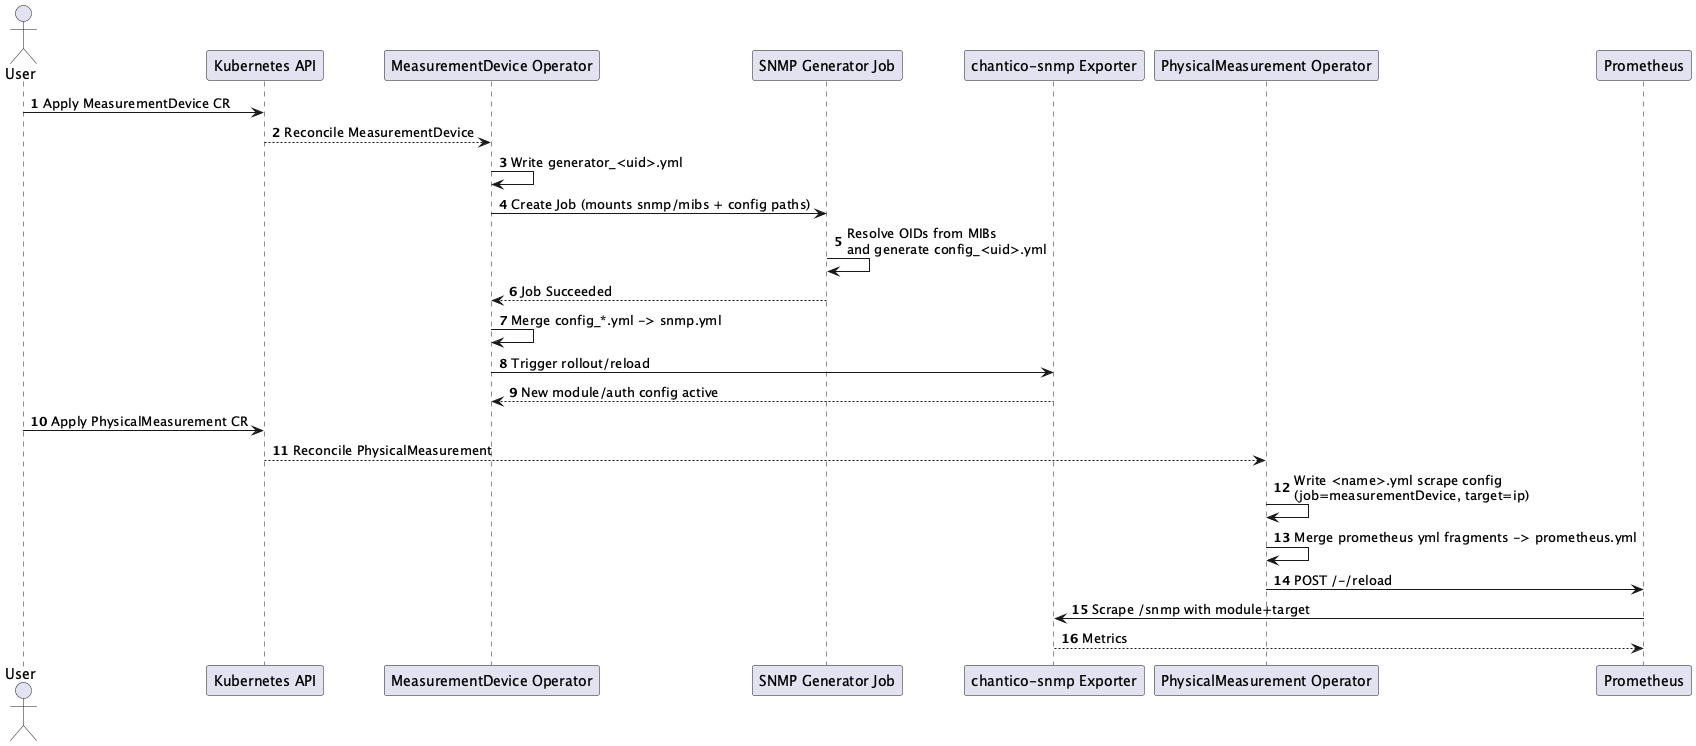
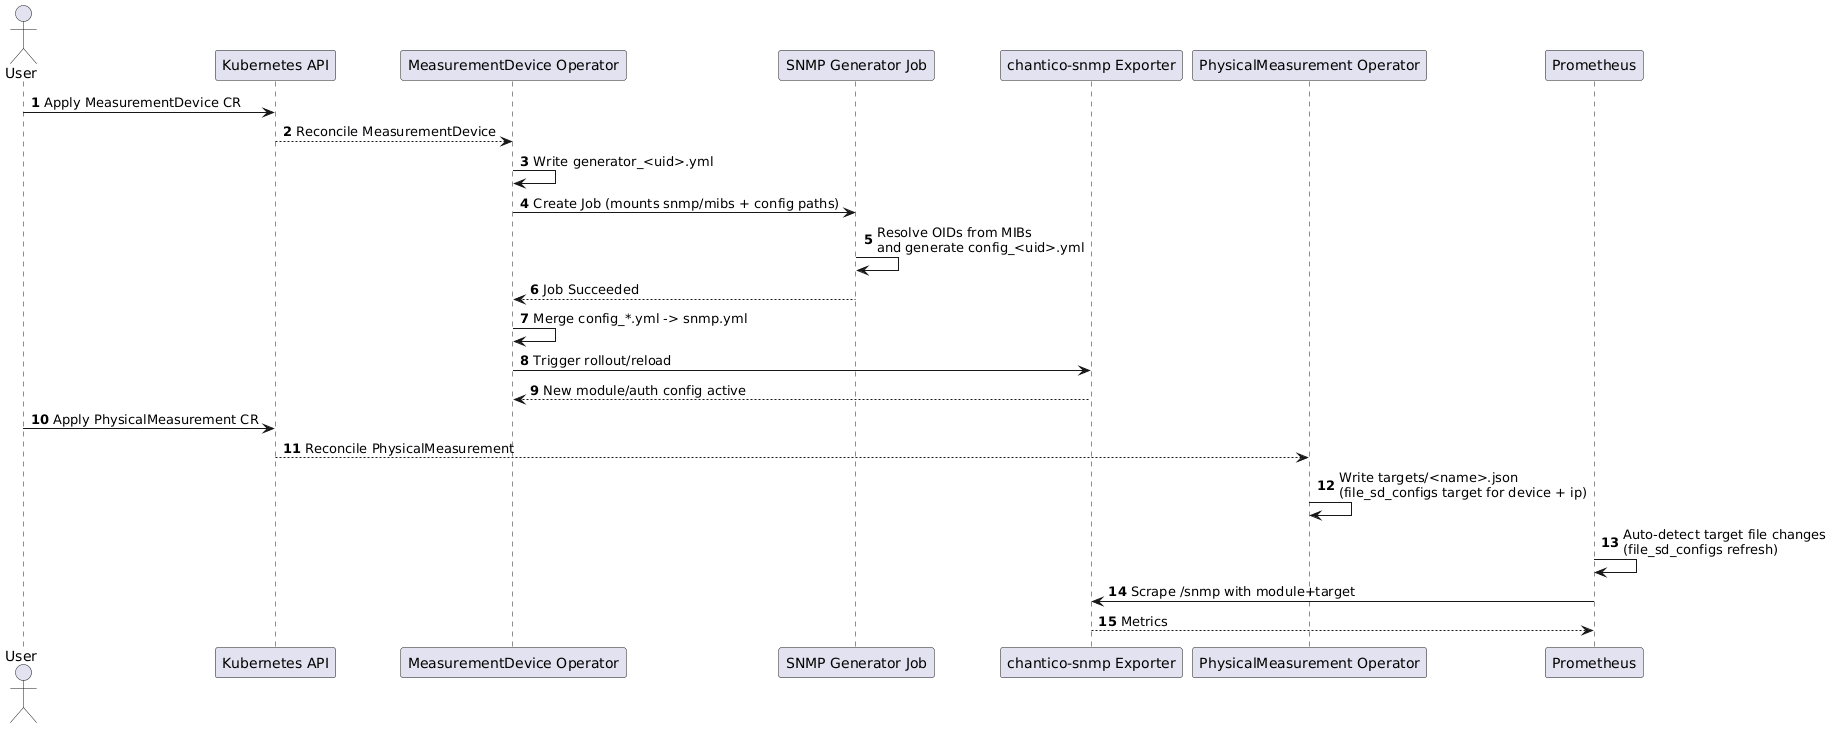
feat(docs): Add generic data center resource graph spec and diagram

diff --git a/docs/content/technical/graph.md b/docs/content/technical/graph.md
@@ -1,0 +1,84 @@
+---
+title: "Data center resource graph"
+weight: 30
+---
+
+This document describes the data center resource graph managed and validated by 
+the DataCenterResource controller. It explains the design, the data model, how 
+the graph is constructed, validated and some of the fields that are used to 
+describe the graph.
+
+Chantico is built on the foundation that physical and virtual components that 
+make up a data center can be related to each other. Each component that can be 
+monitored, aggregated or allocated energy-wise is represented as 
+a `DataCenterResource` custom resource. The relationships between these 
+resources define how energy flows from one resource to another. Together, the 
+resourcesand their relationships form a graph. Once the graph is completely 
+constructed, it allows for accounting all the energy usage in a data center.
+
+One important property of the graph is that it is represented as a directed 
+acyclic graph (DAG), meaning that there are no cycles in the graph. This is 
+important because it allows for complete and unambiguous assignment of power 
+consumption.
+
+## Fields and validation
+
+| Field | Type | Description |
+|---|---|---|
+| `metadata.name` | `string` | The name of the resource. This is used to reference the resource in `spec.parents` of other resources. |
+| `spec.type` | `string` | The type of the resource (e.g. PDU, bare metal, VM, pod) |
+| `spec.physicalMeasurements` | list of `string` | The list of physical measurements that are associated with this resource. A portion of these are the metrics that are relevant for energy usage calculation of this resource. |
+| `spec.energyMetrics` | `string` | Prometheus metric expression to collect energy usage |
+| `spec.parents` | list of `ParentRef` | Parent resources with optional coefficients |
+| `spec.serviceId` | `string` | The service ID that this resource is associated with. This is used to group resources together for energy accounting purposes. |
+
+Some of these fields are validated by the controller to ensure that the graph is 
+constructed correctly, has no ambiguous or unknown information, and that there 
+are no cycles or invalid flags on the resources:
+
+- `spec.type` must be one of the known resource types: `pdu`, `baremetal`, `vm`, 
+  `kubernetes` or `heat`. We expect to include more types in the future such as 
+  power feeds and input power types. Currently, if another type is used, the 
+  controller will not use the resource in energy usage calculations.
+- `spec.parents` must reference existing resources in the same namespace and 
+  those resources must not (indirectly) refer to this resource. If a parent 
+  resource does not exist, the controller will not use the resource in energy 
+  usage calculations.
+- `spec.serviceId` must not be set for a resource that is itself a parent of 
+  another resource. This is because the service ID is used to group resources 
+  that are provided to a services subscription, and this is not applicable to 
+  resources that are themselves split up into other resources. If, later on, we 
+  encounter a use case where this is needed, such as a PDU that is provided as 
+  a service on some outlets (for rack-as-a-service) but provided as a normal 
+  resource device for higher-level (baremetal, VM, kubernetes) resources, we may 
+  relax or extend this field.
+
+## Example graph
+
+In the following graph, the nodes represent `DataCenterResource` custom 
+resources and the edges represent the relationships between them. The edges are 
+directed from parent to child, indicating the flow of energy from one resource 
+to another.
+
+The red nodes represent input power resources (currently not yet implemented), 
+the blue nodes represent resources that are not directly part of a service 
+subscription (PDUs, bare metals, VMs, kubernetes clusters that are sold per 
+namespace or pod, etc.), and the green nodes represent resources that are part 
+of a service subscription (bare metals, VMs, kubernetes clusters, pods, etc.).
+
+As such, the red nodes have no parents other than upstream power inputs, and the 
+green nodes have no children. The green nodes are marked with a `serviceId` in 
+their corresponding resources.
+
+The red nodes are currently not implemented with specific types and fields, and 
+the graph does not yet include any output power resources such as heat reuse. As 
+such, this is an initial vision for the data center resource graph that Chantico 
+managed and monitors.
+
+![](../puml/data-center-resource-graph.png)
+
+## Energy accounting
+
+More details on the implementation of energy accounting with Prometheus 
+recording rules can be found in the [energy accounting](energy-accounting.md) 
+document.

diff --git a/docs/content/technical/energy-accounting.md b/docs/content/technical/energy-accounting.md
@@ -1,6 +1,6 @@
 ---
 title: "Energy Accounting via Prometheus Recording Rules"
-weight: 30
+weight: 35
 ---
 
 This document describes the energy accounting feature implemented in the